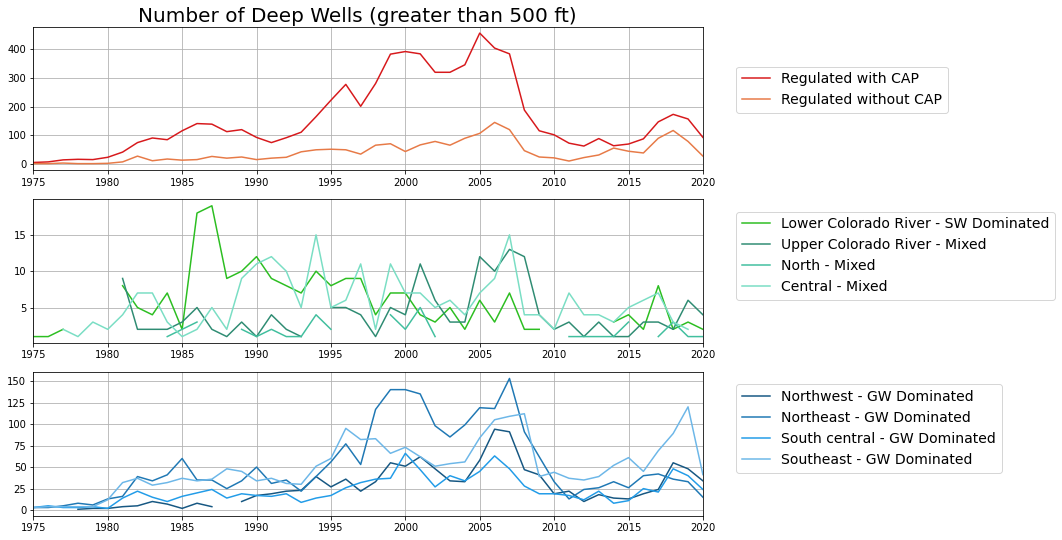
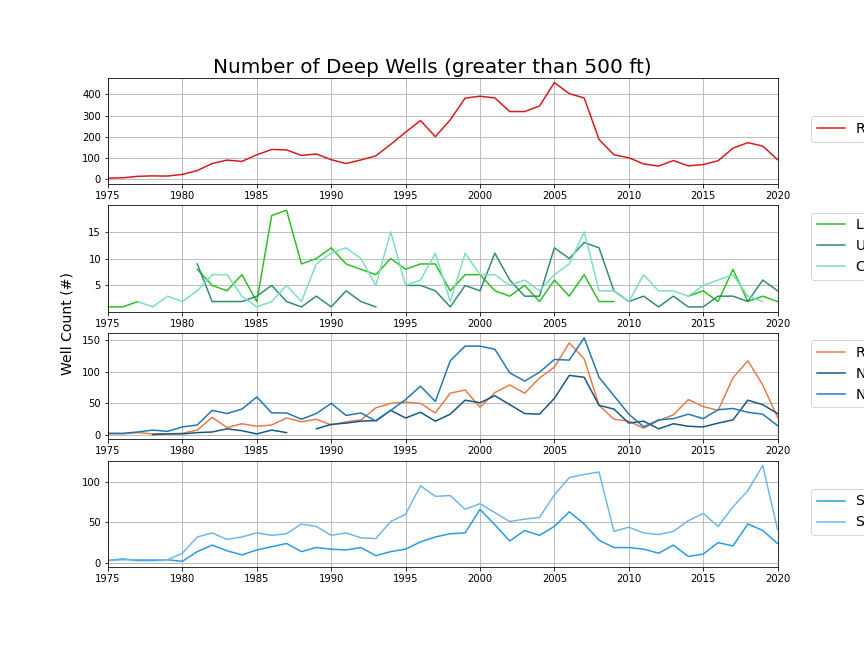
Remapped GRACE with just Ag regions

diff --git a/SummaryCodes/Spatial_Analysis_Wells_FinalGeoreg.py b/SummaryCodes/Spatial_Analysis_Wells_FinalGeoreg.py
@@ -602,7 +602,7 @@ plt.savefig(outputpath+name+'_3panel', bbox_inches = 'tight') # bbox_inches make
 # - max screen depth over time (Casing_DEP vs Installed)
 # - Number of new wells installed over time
 
-# Re-read in after proper install date formatting
+# Re-read in after proper install date formatting, also had to fix NaN values in Regulation column
 #       Note: had to go into excel and change the date from mm/dd/yy to mm/dd/yyyy
 #             because date parser cutoff for older items is 1969
 filename = 'Final_Static_geodatabase_waterwells.csv'
@@ -627,15 +627,25 @@ static_geo2['INSTALLED'].describe()
 static_geo2['In_year'] = static_geo2['INSTALLED'].dt.year
 static_geo2['In_year'].describe()
 
+# %% Checking information about static_geo2
+
+static_na = static_geo2[static_geo2['Regulation'].isna()]
+print(static_na)
+
+# %%
+static_na['GEO_Region'].unique()
+
 # %% 
-Well_Depth = static_geo2[['WELL_DEPTH', 'INSTALLED', 'Combo_ID', 'In_year','GEOREGI_NU']]
+Well_Depth = static_geo2[['WELL_DEPTH', 'INSTALLED', 'Combo_ID', 'In_year','GEOREGI_NU', 'Regulation', 'Water_CAT']]
 #%%
 Well_Depth
 
 #%%
 # Well_Depth.to_csv('../MergedData/Output_files/Final_WellDepth.csv')
 #%%
-Well_Depth = pd.pivot_table(static_geo2, index=["In_year"], columns=["GEOREGI_NU"], values=["WELL_DEPTH"], dropna=False, aggfunc=np.mean)
+# Well_Depth = pd.pivot_table(static_geo2, index=["In_year"], columns=["GEOREGI_NU"], values=["WELL_DEPTH"], dropna=False, aggfunc=np.mean)
+Well_Depth = pd.pivot_table(static_geo2, index=["In_year"], columns=["Regulation"], values=["WELL_DEPTH"], dropna=False, aggfunc=np.mean)
+state_depth = pd.pivot_table(static_geo2, index=["In_year"], values=["WELL_DEPTH"], dropna=False, aggfunc=np.mean)
 Well_Depth.describe()
 
 # %% Set shallow and drilling depths
@@ -652,21 +662,29 @@ wd1 = wd1.sort_values(by=['GEOREGI_NU'])
 wd2 = wd2.sort_values(by=['GEOREGI_NU'])
 wd3 = wd3.sort_values(by=['GEOREGI_NU'])
 #%%
-wdc1 = pd.pivot_table(wd1, index=["In_year"], columns=["GEOREGI_NU"], values=['WELL_DEPTH'], dropna=False, aggfunc=len)
-wdc2 = pd.pivot_table(wd2, index=["In_year"], columns=["GEOREGI_NU"], values=['WELL_DEPTH'], dropna=False, aggfunc=len)
-wdc3 = pd.pivot_table(wd3, index=["In_year"], columns=["GEOREGI_NU"], values=['WELL_DEPTH'], dropna=False, aggfunc=len)
+# wdc1 = pd.pivot_table(wd1, index=["In_year"], columns=["GEOREGI_NU"], values=['WELL_DEPTH'], dropna=False, aggfunc=len)
+# wdc2 = pd.pivot_table(wd2, index=["In_year"], columns=["GEOREGI_NU"], values=['WELL_DEPTH'], dropna=False, aggfunc=len)
+# wdc3 = pd.pivot_table(wd3, index=["In_year"], columns=["GEOREGI_NU"], values=['WELL_DEPTH'], dropna=False, aggfunc=len)
 
-#wdc1 = pd.pivot_table(wd1, index=["In_year"], columns=["GEO_Region"], values=['WELL_DEPTH'], dropna=False, aggfunc=len)
-#wdc2 = pd.pivot_table(wd2, index=["In_year"], columns=["GEO_Region"], values=['WELL_DEPTH'], dropna=False, aggfunc=len)
-#wdc3 = pd.pivot_table(wd3, index=["In_year"], columns=["GEO_Region"], values=['WELL_DEPTH'], dropna=False, aggfunc=len)
+# wdc1 = pd.pivot_table(wd1, index=["In_year"], columns=["GEO_Region"], values=['WELL_DEPTH'], dropna=False, aggfunc=len)
+# wdc2 = pd.pivot_table(wd2, index=["In_year"], columns=["GEO_Region"], values=['WELL_DEPTH'], dropna=False, aggfunc=len)
+# wdc3 = pd.pivot_table(wd3, index=["In_year"], columns=["GEO_Region"], values=['WELL_DEPTH'], dropna=False, aggfunc=len)
+
+wdc1 = pd.pivot_table(wd1, index=["In_year"], columns=["Regulation"], values=['WELL_DEPTH'], dropna=False, aggfunc=len)
+wdc2 = pd.pivot_table(wd2, index=["In_year"], columns=["Regulation"], values=['WELL_DEPTH'], dropna=False, aggfunc=len)
+wdc3 = pd.pivot_table(wd3, index=["In_year"], columns=["Regulation"], values=['WELL_DEPTH'], dropna=False, aggfunc=len)
 
 #%% Exporting the Depth categories
-#wdc1.to_csv('../MergedData/Output_files/Final_Welldepth' + str(deep) + 'plus.csv')
-#wdc2.to_csv('../MergedData/Output_files/Final_Welldepth' + str(shallow) + 'to' + str(deep) + '.csv')
-#wdc3.to_csv('../MergedData/Output_files/Final_Welldepth' + str(shallow) + 'minus.csv')
+# wdc1.to_csv('../MergedData/Output_files/Final_Welldepth' + str(deep) + 'plus.csv')
+# wdc2.to_csv('../MergedData/Output_files/Final_Welldepth' + str(shallow) + 'to' + str(deep) + '.csv')
+# wdc3.to_csv('../MergedData/Output_files/Final_Welldepth' + str(shallow) + 'minus.csv')
 
 # %% Plotting fun
-# Plot all of the deep wells
+wdc1.plot()
+wdc2.plot()
+wdc3.plot()
+# %%
+# Plot all of the deep wells in 4 panel
 ds = wdc1
 name = 'Number of Deep Wells (greater than '+ str(deep) +' ft)'
 ylabel = "Well Count (#)"
@@ -681,25 +699,25 @@ labels = ds.columns.tolist()
 print(labels)
 
 # For the actual figure
-fig, ax = plt.subplots(3,figsize=(12,9))
+fig, ax = plt.subplots(4,figsize=(12,9))
 #fig.tight_layout()
 fig.suptitle(name, fontsize=20, y=0.91)
-#fig.supylabel(ylabel, fontsize = 14, x=0.09)
-#ax[1,1].plot(ds['Reservation'], label='Reservation', color='#8d5a99')
+fig.supylabel(ylabel, fontsize = 14, x=0.07)
 ax[0].plot(ds[labels[1]], label='Regulated with CAP', color=c_2) 
-ax[0].plot(ds[labels[2]], label='Regulated without CAP', color=c_3) 
-ax[1].plot(ds[labels[3]], color=c_4, label='Lower Colorado River - SW Dominated')
-ax[1].plot(ds[labels[4]], color=c_5, label='Upper Colorado River - Mixed')
-ax[1].plot(ds[labels[9]], color=c_10, label='North - Mixed')
-ax[1].plot(ds[labels[10]], color=c_11, label='Central - Mixed')
-ax[2].plot(ds[labels[6]], color=c_7, label='Northwest - GW Dominated')
-ax[2].plot(ds[labels[8]], color=c_9, label='Northeast - GW Dominated')
+ax[1].plot(ds[labels[2]], label='Regulated without CAP', color=c_3) 
+ax[3].plot(ds[labels[3]], color=c_4, label='Lower Colorado River - SW Dominated')
+ax[3].plot(ds[labels[4]], color=c_5, label='Upper Colorado River - Mixed')
+# ax[1].plot(ds[labels[9]], color=c_10, label='North - Mixed')
+ax[3].plot(ds[labels[10]], color=c_11, label='Central - Mixed')
+ax[1].plot(ds[labels[6]], color=c_7, label='Northwest - GW Dominated')
+ax[1].plot(ds[labels[8]], color=c_9, label='Northeast - GW Dominated')
 ax[2].plot(ds[labels[7]], color=c_8, label='South central - GW Dominated')
 ax[2].plot(ds[labels[5]], color=c_6, label='Southeast - GW Dominated')
 
 ax[0].set_xlim(minyear,maxyear)
 ax[1].set_xlim(minyear,maxyear)
 ax[2].set_xlim(minyear,maxyear)
+ax[3].set_xlim(minyear,maxyear)
 
 #ax[0].set_ylim(min_y,max_y)
 #ax[1].set_ylim(min_y,max_y)
@@ -708,6 +726,7 @@ ax[2].set_xlim(minyear,maxyear)
 ax[0].grid(True)
 ax[1].grid(True)
 ax[2].grid(True)
+ax[3].grid(True)
 
 #ax[0,0].set(title=name, xlabel='Year', ylabel='Change from Baseline (cm)')
 #ax[0,0].set_title(name, loc='right')
@@ -715,10 +734,68 @@ ax[2].grid(True)
 ax[0].legend(loc = [1.05, 0.40], fontsize = fsize)
 ax[1].legend(loc = [1.05, 0.3], fontsize = fsize)
 ax[2].legend(loc = [1.05, 0.3], fontsize = fsize)
+ax[3].legend(loc = [1.05, 0.3], fontsize = fsize)
 
-plt.savefig(outputpath+name)
+# plt.savefig(outputpath+name+'_4panel')
 
-# %% Mid-range wells
+# %%  Plot all of the deep wells in 2x2 panel
+ds = wdc1
+name = 'Number of Deep Wells (greater than '+ str(deep) +' ft)'
+ylabel = "Well Count (#)"
+minyear=1975
+maxyear=2020
+#min_y = -15
+#max_y = 7
+fsize = 10
+
+columns = ds.columns
+labels = ds.columns.tolist()
+print(labels)
+p0 = 0,0
+p1 = 0,1
+p2 = 1,0
+p3 = 1,1
+
+# For the actual figure
+fig, ax = plt.subplots(2, 2, figsize=(18,9))
+#fig.tight_layout()
+fig.suptitle(name, fontsize=20, y=0.91)
+fig.supylabel(ylabel, fontsize = 14, x=0.09)
+ax[p0].plot(ds[labels[1]], label='Regulated with CAP', color=c_2) 
+ax[p1].plot(ds[labels[2]], label='Regulated without CAP', color=c_3) 
+ax[p2].plot(ds[labels[3]], color=c_4, label='Lower Colorado River - SW Dominated')
+ax[p2].plot(ds[labels[4]], color=c_5, label='Upper Colorado River - Mixed')
+# ax[p1].plot(ds[labels[9]], color=c_10, label='North - Mixed')
+ax[p2].plot(ds[labels[10]], color=c_11, label='Central - Mixed')
+ax[p1].plot(ds[labels[6]], color=c_7, label='Northwest - GW Dominated')
+ax[p1].plot(ds[labels[8]], color=c_9, label='Northeast - GW Dominated')
+ax[p3].plot(ds[labels[7]], color=c_8, label='South central - GW Dominated')
+ax[p3].plot(ds[labels[5]], color=c_6, label='Southeast - GW Dominated')
+
+ax[p0].set_xlim(minyear,maxyear)
+ax[p1].set_xlim(minyear,maxyear)
+ax[p2].set_xlim(minyear,maxyear)
+ax[p3].set_xlim(minyear,maxyear)
+
+#ax[p0].set_ylim(min_y,max_y)
+#ax[p1].set_ylim(min_y,max_y)
+#ax[p2].set_ylim(min_y,max_y)
+
+ax[p0].grid(True)
+ax[p1].grid(True)
+ax[p2].grid(True)
+ax[p3].grid(True)
+
+#ax[0,0].set(title=name, xlabel='Year', ylabel='Change from Baseline (cm)')
+#ax[0,0].set_title(name, loc='right')
+#ax[1,0].set_ylabel("Change from 2004-2009 Baseline (cm)", loc='top', fontsize = fsize)
+ax[p0].legend(loc = [0.02, 0.8], fontsize = fsize)
+ax[p1].legend(loc = [0.02, 0.73], fontsize = fsize)
+ax[p2].legend(loc = [0.5, 0.73], fontsize = fsize)
+ax[p3].legend(loc = [0.02, 0.8], fontsize = fsize)
+
+plt.savefig(outputpath+name+'_2by2panel')
+# %% Mid-range wells 3 panel
 # Plot all of them
 ds = wdc2
 name = 'Number of Mid-range Wells (between '+ str(shallow) +' and '+ str(deep)+' ft.)'
@@ -769,9 +846,67 @@ ax[0].legend(loc = [1.05, 0.40], fontsize = fsize)
 ax[1].legend(loc = [1.05, 0.3], fontsize = fsize)
 ax[2].legend(loc = [1.05, 0.3], fontsize = fsize)
 
-plt.savefig(outputpath+name)
+plt.savefig(outputpath+name+'_3panel')
 
-# %% Shallow wells
+# %%  Plot all of the midrange wells in 2x2 panel
+ds = wdc2
+name = 'Number of Mid-range Wells (between '+ str(shallow) +' and '+ str(deep)+' ft.)'
+ylabel = "Well Count (#)"
+minyear=1975
+maxyear=2020
+#min_y = -15
+#max_y = 7
+fsize = 10
+
+columns = ds.columns
+labels = ds.columns.tolist()
+print(labels)
+p0 = 0,0
+p1 = 0,1
+p2 = 1,0
+p3 = 1,1
+
+# For the actual figure
+fig, ax = plt.subplots(2, 2, figsize=(18,9))
+#fig.tight_layout()
+fig.suptitle(name, fontsize=20, y=0.91)
+fig.supylabel(ylabel, fontsize = 14, x=0.09)
+ax[p0].plot(ds[labels[1]], label='Regulated with CAP', color=c_2) 
+ax[p1].plot(ds[labels[2]], label='Regulated without CAP', color=c_3) 
+ax[p0].plot(ds[labels[3]], color=c_4, label='Lower Colorado River - SW Dominated')
+ax[p2].plot(ds[labels[4]], color=c_5, label='Upper Colorado River - Mixed')
+# ax[p1].plot(ds[labels[9]], color=c_10, label='North - Mixed')
+ax[p2].plot(ds[labels[10]], color=c_11, label='Central - Mixed')
+ax[p1].plot(ds[labels[6]], color=c_7, label='Northwest - GW Dominated')
+ax[p1].plot(ds[labels[8]], color=c_9, label='Northeast - GW Dominated')
+ax[p3].plot(ds[labels[7]], color=c_8, label='South central - GW Dominated')
+ax[p3].plot(ds[labels[5]], color=c_6, label='Southeast - GW Dominated')
+
+ax[p0].set_xlim(minyear,maxyear)
+ax[p1].set_xlim(minyear,maxyear)
+ax[p2].set_xlim(minyear,maxyear)
+ax[p3].set_xlim(minyear,maxyear)
+
+#ax[p0].set_ylim(min_y,max_y)
+#ax[p1].set_ylim(min_y,max_y)
+#ax[p2].set_ylim(min_y,max_y)
+
+ax[p0].grid(True)
+ax[p1].grid(True)
+ax[p2].grid(True)
+ax[p3].grid(True)
+
+#ax[0,0].set(title=name, xlabel='Year', ylabel='Change from Baseline (cm)')
+#ax[0,0].set_title(name, loc='right')
+#ax[1,0].set_ylabel("Change from 2004-2009 Baseline (cm)", loc='top', fontsize = fsize)
+ax[p0].legend(loc = [0.02, 0.8], fontsize = fsize)
+ax[p1].legend(loc = [0.02, 0.73], fontsize = fsize)
+ax[p2].legend(loc = [0.6, 0.8], fontsize = fsize)
+ax[p3].legend(loc = [0.02, 0.8], fontsize = fsize)
+
+plt.savefig(outputpath+name+'_2by2panel')
+
+# %% Shallow wells in 4 panel (1 column)
 ds = wdc3
 name = 'Number of Shallow Wells (less than '+ str(shallow) +' ft)'
 ylabel = "Well Count (#)"
@@ -821,7 +956,66 @@ ax[0].legend(loc = [1.05, 0.40], fontsize = fsize)
 ax[1].legend(loc = [1.05, 0.3], fontsize = fsize)
 ax[2].legend(loc = [1.05, 0.3], fontsize = fsize)
 
-plt.savefig(outputpath+name)
+plt.savefig(outputpath+name+'_3panel')
+
+# %%  Plot all of the shallow wells in 2x2 panel
+ds = wdc3
+name = 'Number of Shallow Wells (less than '+ str(shallow) +' ft)'
+ylabel = "Well Count (#)"
+minyear=1975
+maxyear=2020
+#min_y = -15
+#max_y = 7
+fsize = 10
+
+columns = ds.columns
+labels = ds.columns.tolist()
+print(labels)
+p0 = 0,0
+p1 = 0,1
+p2 = 1,0
+p3 = 1,1
+
+# For the actual figure
+fig, ax = plt.subplots(2, 2, figsize=(18,9))
+#fig.tight_layout()
+fig.suptitle(name, fontsize=20, y=0.91)
+fig.supylabel(ylabel, fontsize = 14, x=0.09)
+ax[p0].plot(ds[labels[1]], label='Regulated with CAP', color=c_2) 
+ax[p1].plot(ds[labels[2]], label='Regulated without CAP', color=c_3) 
+ax[p0].plot(ds[labels[3]], color=c_4, label='Lower Colorado River - SW Dominated')
+ax[p2].plot(ds[labels[4]], color=c_5, label='Upper Colorado River - Mixed')
+# ax[p1].plot(ds[labels[9]], color=c_10, label='North - Mixed')
+ax[p2].plot(ds[labels[10]], color=c_11, label='Central - Mixed')
+ax[p1].plot(ds[labels[6]], color=c_7, label='Northwest - GW Dominated')
+ax[p1].plot(ds[labels[8]], color=c_9, label='Northeast - GW Dominated')
+ax[p3].plot(ds[labels[7]], color=c_8, label='South central - GW Dominated')
+ax[p3].plot(ds[labels[5]], color=c_6, label='Southeast - GW Dominated')
+
+ax[p0].set_xlim(minyear,maxyear)
+ax[p1].set_xlim(minyear,maxyear)
+ax[p2].set_xlim(minyear,maxyear)
+ax[p3].set_xlim(minyear,maxyear)
+
+#ax[p0].set_ylim(min_y,max_y)
+#ax[p1].set_ylim(min_y,max_y)
+#ax[p2].set_ylim(min_y,max_y)
+
+ax[p0].grid(True)
+ax[p1].grid(True)
+ax[p2].grid(True)
+ax[p3].grid(True)
+
+#ax[0,0].set(title=name, xlabel='Year', ylabel='Change from Baseline (cm)')
+#ax[0,0].set_title(name, loc='right')
+#ax[1,0].set_ylabel("Change from 2004-2009 Baseline (cm)", loc='top', fontsize = fsize)
+ax[p0].legend(loc = [0.02, 0.8], fontsize = fsize)
+ax[p1].legend(loc = [0.6, 0.75], fontsize = fsize)
+ax[p2].legend(loc = [0.58, 0.8], fontsize = fsize)
+ax[p3].legend(loc = [0.02, 0.8], fontsize = fsize)
+
+plt.savefig(outputpath+name+'_2by2panel')
+
 
 # %%
 new_wells = pd.pivot_table(static_geo2, index=["In_year"], columns=["GEOREGI_NU"], values=["INSTALLED"], dropna=False, aggfunc=len)

diff --git a/SummaryCodes/Spatial_Analysis_GRACE.py b/SummaryCodes/Spatial_Analysis_GRACE.py
@@ -163,6 +163,8 @@ xgrid = np.arange(lon_min-0.5, lon_max+0.5, 1.)
 ygrid = np.arange(lat_min, lat_max+1, 1.)
 plt.show()
 
+# %% Trying to think of how to lump these attribute tables
+
 
 # %% ---- Remapping using EASYMORE Package ----
 # Prepping the data
@@ -194,7 +196,7 @@ esmr = easymore()
 
 # specifying EASYMORE objects
 # name of the case; the temporary, remapping and remapped file names include case name
-esmr.case_name                = 'easymore_GRACE_georeg'              
+esmr.case_name                = 'easymore_GRACE_AZ_irrAg'              
 # temporary path that the EASYMORE generated GIS files and remapped file will be saved
 esmr.temp_dir                 = '../temporary/'
 
@@ -211,7 +213,8 @@ esmr.temp_dir                 = '../temporary/'
 #esmr.target_shp = '/Users/danielletadych/Documents/PhD_Materials/github_repos/AzGwDrought_SpatialAnalysis/MergedData/Shapefiles/AZ_counties.shp'
 #esmr.target_shp = '/Users/danielletadych/Documents/PhD_Materials/github_repos/AzGwDrought_SpatialAnalysis/MergedData/Output_files/Georegions_AGU.shp'
 #esmr.target_shp = 'Georegions_reproject.shp'
-esmr.target_shp = 'georeg_reproject_fixed.shp'
+# esmr.target_shp = 'georeg_reproject_fixed.shp'
+esmr.target_shp = 'Ag_NonAG_reproject.shp'
 #esmr.target_shp = 'counties_reproject.shp'
 # name of netCDF file(s); multiple files can be specified with *
 # esmr.source_nc                = '../data/Source_nc_ERA5/ERA5_NA_*.nc'
